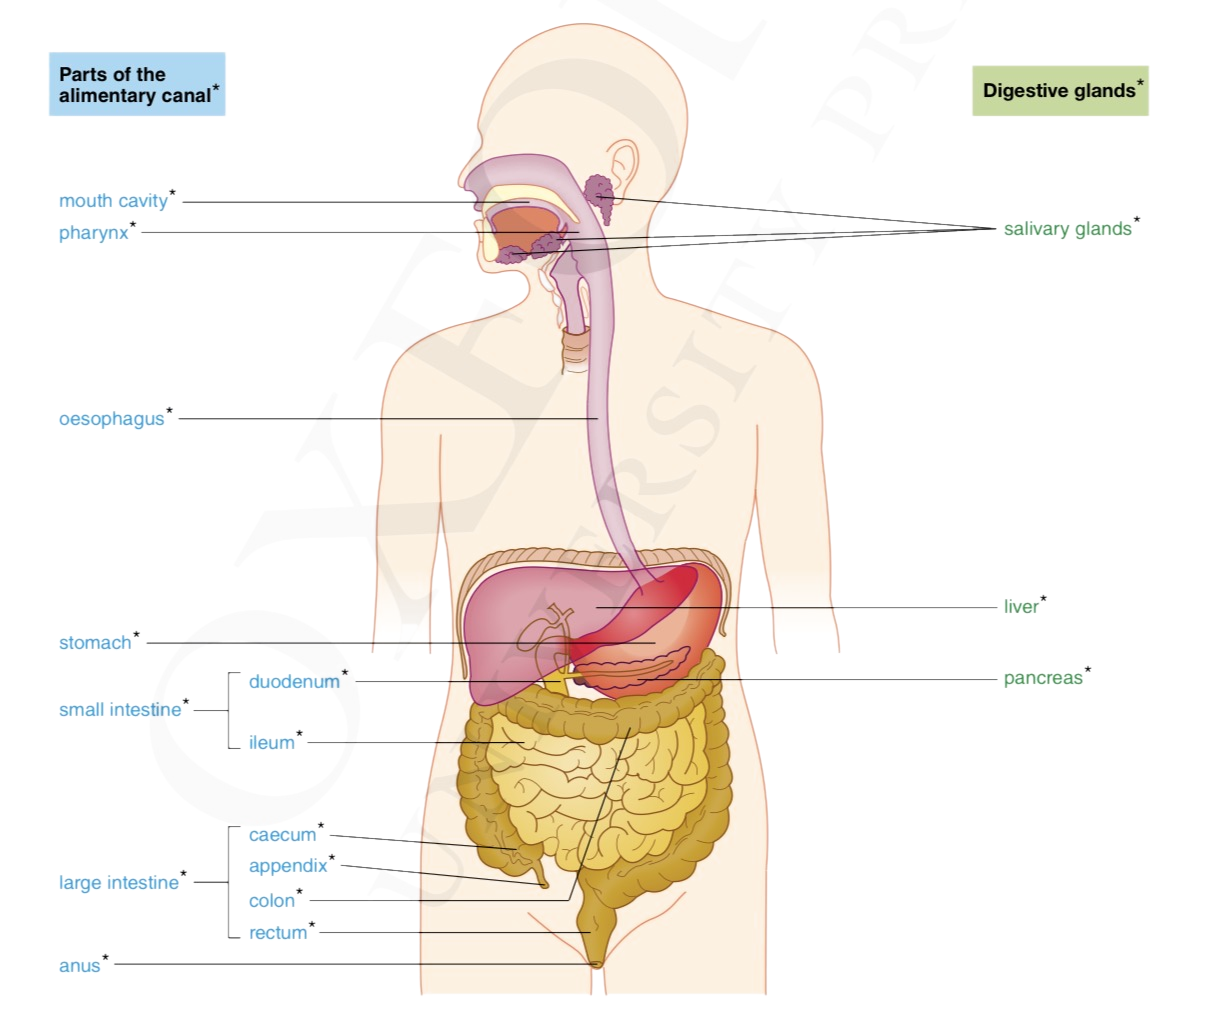
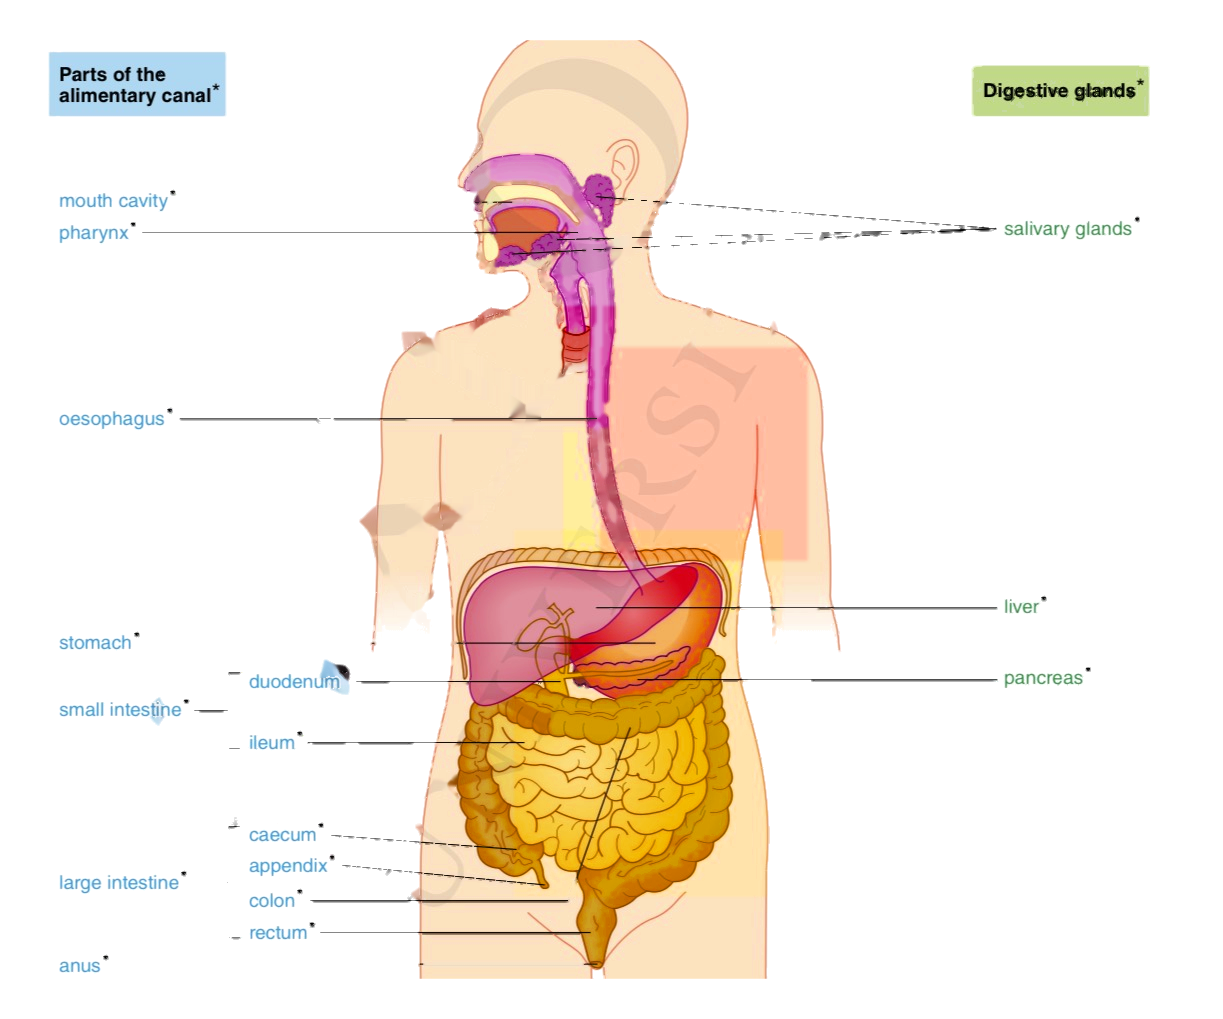
Clean diagram watermark and boost organ colors for classroom use
Reprocess digestive-diagram/body PNGs: inpaint gray diagonal stamp
(especially on white bg), soft-alpha knockout of residual gray, and
HSV retints so liver, stomach, intestines, tract and pancreas read
more distinctly. Mild canvas saturate on draw.

diff --git a/js/digestive-overlay.js b/js/digestive-overlay.js
@@ -281,12 +281,18 @@ function drawDiagramOnTorso(ctx, img, calib, frame, width, height) {
 
   ctx.save();
   ctx.globalAlpha = 0.94;
-  // Soft multiply-ish look over camera: slight brightness
+  // Mild classroom clarity boost (image already recolored offline)
+  try {
+    ctx.filter = "saturate(1.12) contrast(1.04)";
+  } catch (_) {
+    /* older browsers */
+  }
   ctx.translate(midS.x, midS.y);
   ctx.rotate(poseAngle - imgAngle);
   ctx.scale(scaleX, scaleY);
   ctx.translate(-calib.midShoulder.x, -calib.midShoulder.y);
   ctx.drawImage(img, 0, 0);
+  ctx.filter = "none";
   ctx.restore();
 }
 
